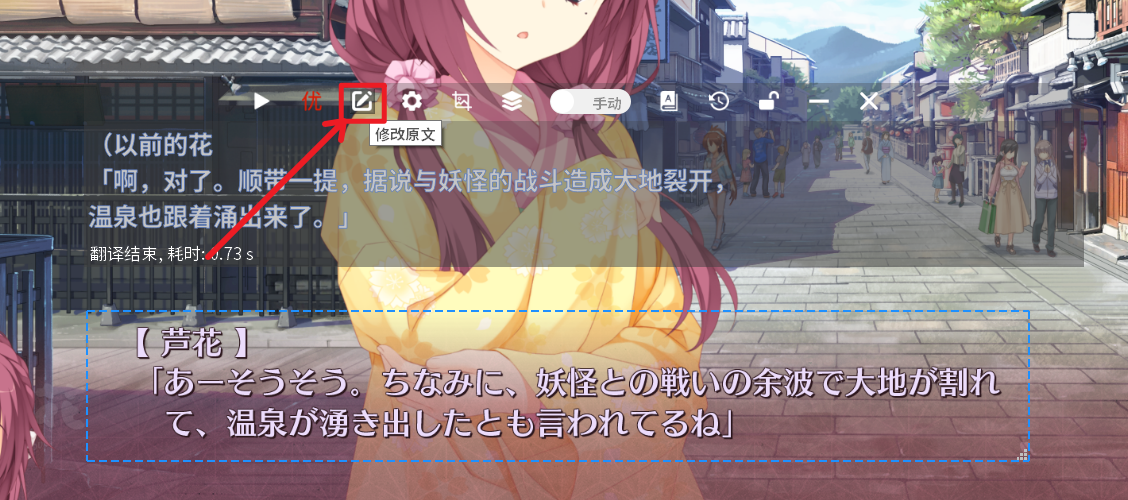
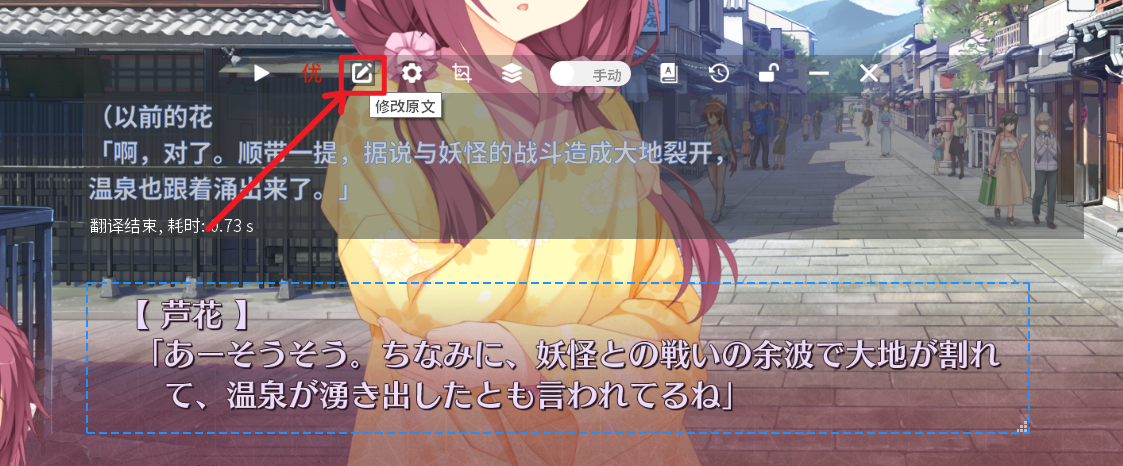
更改部分图片内的用户名

diff --git a/docs/index.md b/docs/index.md
@@ -253,20 +253,20 @@
    - ![新增用户](./assets/img/231.webp ':size=50%')
    - ![通过用户名创建](./assets/img/232.webp ':size=50%')
 
-8. 用户名可以填写`dl_translator`，勾选`编程访问`，再点击下一步
-    - ![新建用户](./assets/img/233.webp ':size=50%')
+8. 用户名可以填写`translator`，勾选`编程访问`，再点击下一步
+    - ![新建用户](./assets/img/233.png ':size=50%')
 
 9. 在搜索框内输入`翻译`,`勾选`得到的两个选项，作用范围选择`全局`，再点击下一步
     - ![权限设置](./assets/img/234.webp ':size=50%')
 
 10. 信息确认无误后点击`提交`
-    - ![点击提交](./assets/img/235.webp ':size=50%')
+    - ![点击提交](./assets/img/235.png ':size=50%')
 
 11. 回到这个用户管理界面后，点击`管理`
-    - ![点击管理](./assets/img/236.webp ':size=50%')
+    - ![点击管理](./assets/img/236.png ':size=50%')
 
 12. 点击`密钥`，分别点击两个复制按钮，将这里的两个密钥复制到AUTO翻译器内`火山`的密钥编辑框，然后点击`测试`按钮查看可用性
-    - ![复制密钥1](./assets/img/237.webp ':size=50%')
+    - ![复制密钥1](./assets/img/237.png ':size=50%')
 
 [点此返回翻译器教程](#配置翻译源)
 
